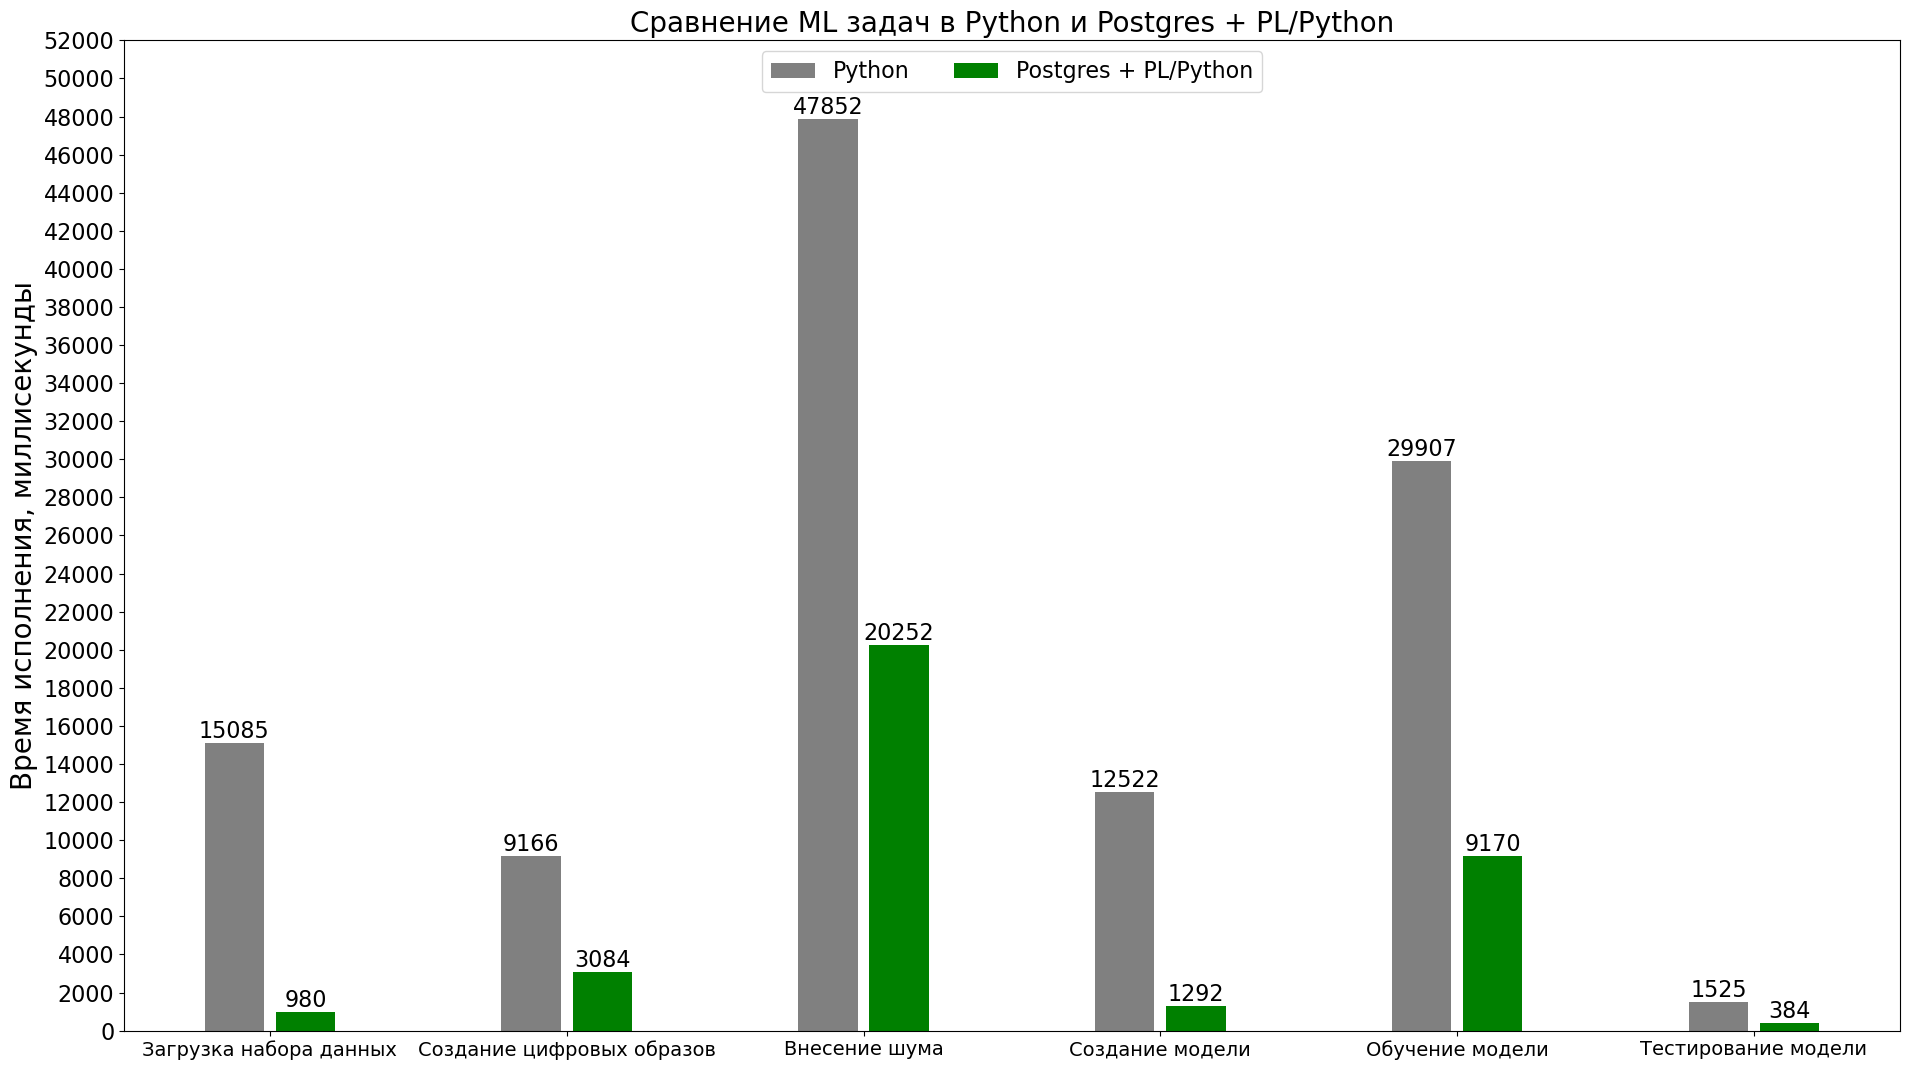
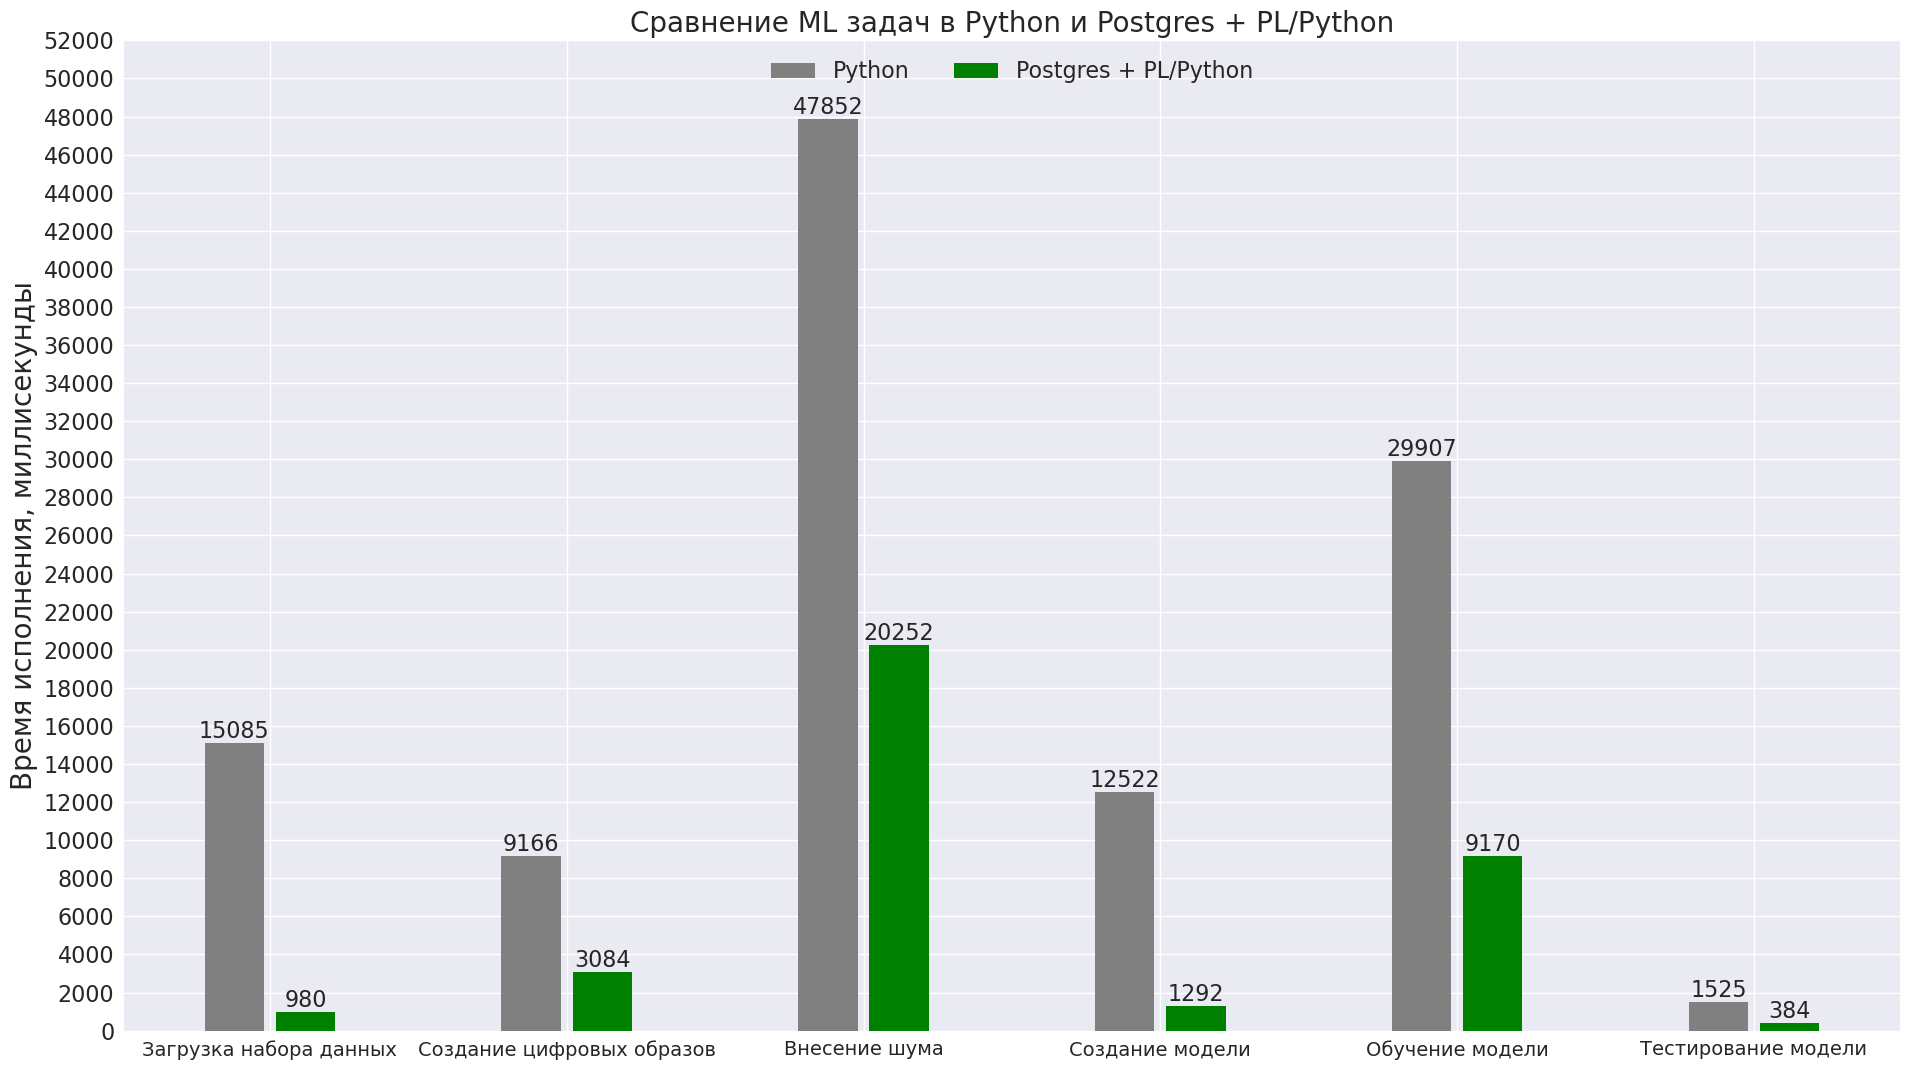
Add python-vs-postgres animated graphs
Add functions for postgres vs python graphs animation
Optimize some imports and variables with lists and dictionary
Update first graph name and all graphs style with "seaborn"
Change second graph from miliseconds to seconds

diff --git a/haralick-features/postgres-vs-python.py b/haralick-features/postgres-vs-python.py
@@ -1,5 +1,8 @@
-import numpy as np
 import matplotlib.pyplot as plt
+import numpy as np
+from matplotlib.animation import FuncAnimation
+
+plt.style.use("seaborn")
 
 data = [
     [ 15085, 9166, 47852, 12522, 29907, 1525],
@@ -28,12 +31,12 @@ y_offset = np.zeros(len(columns))
 values = np.arange(0, 17.5, 0.5)
 plt.figure(figsize=(19.2, 10.8), dpi=100)
 rects_0 = plt.bar(index - 0.12, bar_data[1], bar_width, bottom=y_offset, color=colors[1], label=rows[1])
-plt.bar_label(rects_0, fmt='%1.1f', fontsize=16)
+plt.bar_label(rects_0, fmt='%.1f', fontsize=16)
 rects_1 = plt.bar(index + 0.12, bar_data[0], bar_width, bottom=y_offset, color=colors[0], label=rows[0])
-plt.bar_label(rects_1, fmt='%1.1f', fontsize=16)
+plt.bar_label(rects_1, fmt='%.1f', fontsize=16)
 plt.legend(loc='upper center', ncols=2, fontsize=16)
 
-plt.ylabel(f"Время исполнения, кол-во раз", fontdict={'fontsize': 20})
+plt.ylabel(f"Уменьшение времени исполнения, кол-во раз", fontdict={'fontsize': 20})
 plt.yticks(values, fontsize=16)
 plt.xticks([0.166, 1.166, 2.166, 3.166, 4.166, 5.166], columns, fontsize=14)
 plt.title('Сравнение ML задач в Python и Postgres + PL/Python', fontdict={'fontsize': 20})
@@ -43,19 +46,189 @@ plt.show()
 
 plt.clf()
 
-values = np.arange(0, 54000, 2000)
+values = np.arange(0.0, 54.0, 2.0)
 plt.figure(figsize=(19.2, 10.8), dpi=100)
-rects_2 = plt.bar(index - 0.12, data[0], bar_width, bottom=y_offset, color=colors[1], label=rows[1])
-plt.bar_label(rects_2, fmt='%d', fontsize=16)
-rects_3 = plt.bar(index + 0.12, data[1], bar_width, bottom=y_offset, color=colors[0], label=rows[0])
-plt.bar_label(rects_3, fmt='%d', fontsize=16)
+rects_2 = plt.bar(index - 0.12, [x / 1000.0 for x in data[0]], bar_width, bottom=y_offset, color=colors[1], label=rows[1])
+plt.bar_label(rects_2, fmt='%.1f', fontsize=16)
+rects_3 = plt.bar(index + 0.12, [x / 1000.0 for x in data[1]], bar_width, bottom=y_offset, color=colors[0], label=rows[0])
+plt.bar_label(rects_3, fmt='%.1f', fontsize=16)
 plt.legend(loc='upper center', ncols=2, fontsize=16)
 
-plt.ylabel(f"Время исполнения, миллисекунды", fontdict={'fontsize': 20})
+plt.ylabel(f"Время исполнения, секунды", fontdict={'fontsize': 20})
 plt.yticks(values, fontsize=16)
 plt.xticks([0.166, 1.166, 2.166, 3.166, 4.166, 5.166], columns, fontsize=14)
 plt.title('Сравнение ML задач в Python и Postgres + PL/Python', fontdict={'fontsize': 20})
 plt.tight_layout()
-plt.savefig('graphs/postgres-vs-python-graph-ms.png', bbox_inches='tight')
+plt.savefig('graphs/postgres-vs-python-graph-s.png', bbox_inches='tight')
 plt.show()
+
+values = np.arange(0, 17.5, 0.5)
+
+frames = 120.0
+
+interval_list = []
+for i in range(0, 6):
+    interval_list.append([bar_data[1][i] / frames, bar_data[0][i] / frames])
+
+lst_ranges = []
+for i in range(0, 6):
+    lst_ranges.append([
+        np.arange(0.0, bar_data[1][i] + interval_list[i][0], interval_list[i][0]),
+        np.arange(0.0, bar_data[0][i] + interval_list[i][1], interval_list[i][1])
+    ])
+
+index_list = []
+for i in range(0, 6):
+    index_list.append(np.arange(i, i + 1.0) + 0.5)
+
+y_dict = {
+    '0': [], '1': [],
+    '2': [], '3': [],
+    '4': [], '5': [],
+    '6': [], '7': [],
+    '8': [], '9': [],
+    '10': [], '11': []
+}
+
+fig = plt.figure(figsize=(19.2, 10.8), dpi=100)
+def animate_one(i):
+    print(i)
+    plt.clf()
+
+    if 0 <= i < 120:
+        y_dict['0'], y_dict['1'] = lst_ranges[0][0][i], lst_ranges[0][1][i]
+        y_dict['2'], y_dict['3'] = lst_ranges[1][0][i], lst_ranges[1][1][i]
+        y_dict['4'], y_dict['5'] = lst_ranges[2][0][i], lst_ranges[2][1][i]
+        y_dict['6'], y_dict['7'] = lst_ranges[3][0][i], lst_ranges[3][1][i]
+        y_dict['8'], y_dict['9'] = lst_ranges[4][0][i], lst_ranges[4][1][i]
+        y_dict['10'], y_dict['11'] = lst_ranges[5][0][i], lst_ranges[5][1][i]
+    else:
+        y_dict['0'], y_dict['1'] = lst_ranges[0][0][-1], lst_ranges[0][1][-1]
+        y_dict['2'], y_dict['3'] = lst_ranges[1][0][-1], lst_ranges[1][1][-1]
+        y_dict['4'], y_dict['5'] = lst_ranges[2][0][-1], lst_ranges[2][1][-1]
+        y_dict['6'], y_dict['7'] = lst_ranges[3][0][-1], lst_ranges[3][1][-1]
+        y_dict['8'], y_dict['9'] = lst_ranges[4][0][-1], lst_ranges[4][1][-1]
+        y_dict['10'], y_dict['11'] = lst_ranges[5][0][-1], lst_ranges[5][1][-1]
+
+    rect0 = plt.bar(index_list[0] - 0.12, y_dict['0'], bar_width, color='gray', label=rows[1])
+    plt.bar_label(rect0, fmt='%1.1f', fontsize=16)
+    rect1 = plt.bar(index_list[0] + 0.12, y_dict['1'], bar_width, color='green', label=rows[0])
+    plt.bar_label(rect1, fmt='%1.1f', fontsize=16)
+    rect2 = plt.bar(index_list[1] - 0.12, y_dict['2'], bar_width, color='gray')
+    plt.bar_label(rect2, fmt='%1.1f', fontsize=16)
+    rect3 = plt.bar(index_list[1] + 0.12, y_dict['3'], bar_width, color='green')
+    plt.bar_label(rect3, fmt='%1.1f', fontsize=16)
+    rect4 = plt.bar(index_list[2] - 0.12, y_dict['4'], bar_width, color='gray')
+    plt.bar_label(rect4, fmt='%1.1f', fontsize=16)
+    rect5 = plt.bar(index_list[2] + 0.12, y_dict['5'], bar_width, color='green')
+    plt.bar_label(rect5, fmt='%1.1f', fontsize=16)
+    rect6 = plt.bar(index_list[3] - 0.12, y_dict['6'], bar_width, color='gray')
+    plt.bar_label(rect6, fmt='%1.1f', fontsize=16)
+    rect7 = plt.bar(index_list[3] + 0.12, y_dict['7'], bar_width, color='green')
+    plt.bar_label(rect7, fmt='%1.1f', fontsize=16)
+    rect8 = plt.bar(index_list[4] - 0.12, y_dict['8'], bar_width, color='gray')
+    plt.bar_label(rect8, fmt='%1.1f', fontsize=16)
+    rect9 = plt.bar(index_list[4] + 0.12, y_dict['9'], bar_width, color='green')
+    plt.bar_label(rect9, fmt='%1.1f', fontsize=16)
+    rect10 = plt.bar(index_list[5] - 0.12, y_dict['10'], bar_width, color='gray')
+    plt.bar_label(rect10, fmt='%1.1f', fontsize=16)
+    rect11 = plt.bar(index_list[5] + 0.12, y_dict['11'], bar_width, color='green')
+    plt.bar_label(rect11, fmt='%1.1f', fontsize=16)
+
+    plt.legend(loc='upper center', ncols=2, fontsize=16)
+    plt.ylabel(f"Уменьшение времени исполнения, кол-во раз", fontdict={'fontsize': 20})
+    plt.xticks([0.5, 1.5, 2.5, 3.5, 4.5, 5.5], columns, fontsize=14)
+    plt.yticks(values, fontsize=16)
+    plt.title('Сравнение ML задач в Python и Postgres + PL/Python', fontdict={'fontsize': 20})
+    plt.ylim([0, 18])
+    plt.xlim([0.0, 6.0])
+    plt.tight_layout()
+
+ani = FuncAnimation(fig, animate_one, frames=240, interval=10)
+ani.save('postgres-vs-python.mp4', writer='ffmpeg', fps=60)
+
+values = np.arange(0.0, 54.0, 2.0)
+
+frames = 120.0
+
+interval_list = []
+for i in range(0, 6):
+    interval_list.append([data[0][i] / 1000.0 / frames, data[1][i] / 1000.0 / frames])
+
+lst_ranges = []
+for i in range(0, 6):
+    lst_ranges.append([
+        np.arange(0.0, data[0][i] / 1000.0 + interval_list[i][0], interval_list[i][0]),
+        np.arange(0.0, data[1][i] / 1000.0 + interval_list[i][1], interval_list[i][1])
+    ])
+
+index_list = []
+for i in range(0, 6):
+    index_list.append(np.arange(i, i + 1.0) + 0.5)
+
+y_dict = {
+    '0': [], '1': [],
+    '2': [], '3': [],
+    '4': [], '5': [],
+    '6': [], '7': [],
+    '8': [], '9': [],
+    '10': [], '11': []
+}
+
+fig = plt.figure(figsize=(19.2, 10.8), dpi=100)
+def animate_two(i):
+    print(i)
+    plt.clf()
+
+    if 0 <= i < 120:
+        y_dict['0'], y_dict['1'] = lst_ranges[0][0][i], lst_ranges[0][1][i]
+        y_dict['2'], y_dict['3'] = lst_ranges[1][0][i], lst_ranges[1][1][i]
+        y_dict['4'], y_dict['5'] = lst_ranges[2][0][i], lst_ranges[2][1][i]
+        y_dict['6'], y_dict['7'] = lst_ranges[3][0][i], lst_ranges[3][1][i]
+        y_dict['8'], y_dict['9'] = lst_ranges[4][0][i], lst_ranges[4][1][i]
+        y_dict['10'], y_dict['11'] = lst_ranges[5][0][i], lst_ranges[5][1][i]
+    else:
+        y_dict['0'], y_dict['1'] = lst_ranges[0][0][-1], lst_ranges[0][1][-1]
+        y_dict['2'], y_dict['3'] = lst_ranges[1][0][-1], lst_ranges[1][1][-1]
+        y_dict['4'], y_dict['5'] = lst_ranges[2][0][-1], lst_ranges[2][1][-1]
+        y_dict['6'], y_dict['7'] = lst_ranges[3][0][-1], lst_ranges[3][1][-1]
+        y_dict['8'], y_dict['9'] = lst_ranges[4][0][-1], lst_ranges[4][1][-1]
+        y_dict['10'], y_dict['11'] = lst_ranges[5][0][-1], lst_ranges[5][1][-1]
+
+    rect0 = plt.bar(index_list[0] - 0.12, y_dict['0'], bar_width, color='gray', label=rows[1])
+    plt.bar_label(rect0, fmt='%1.1f', fontsize=16)
+    rect1 = plt.bar(index_list[0] + 0.12, y_dict['1'], bar_width, color='green', label=rows[0])
+    plt.bar_label(rect1, fmt='%1.1f', fontsize=16)
+    rect2 = plt.bar(index_list[1] - 0.12, y_dict['2'], bar_width, color='gray')
+    plt.bar_label(rect2, fmt='%1.1f', fontsize=16)
+    rect3 = plt.bar(index_list[1] + 0.12, y_dict['3'], bar_width, color='green')
+    plt.bar_label(rect3, fmt='%1.1f', fontsize=16)
+    rect4 = plt.bar(index_list[2] - 0.12, y_dict['4'], bar_width, color='gray')
+    plt.bar_label(rect4, fmt='%1.1f', fontsize=16)
+    rect5 = plt.bar(index_list[2] + 0.12, y_dict['5'], bar_width, color='green')
+    plt.bar_label(rect5, fmt='%1.1f', fontsize=16)
+    rect6 = plt.bar(index_list[3] - 0.12, y_dict['6'], bar_width, color='gray')
+    plt.bar_label(rect6, fmt='%1.1f', fontsize=16)
+    rect7 = plt.bar(index_list[3] + 0.12, y_dict['7'], bar_width, color='green')
+    plt.bar_label(rect7, fmt='%1.1f', fontsize=16)
+    rect8 = plt.bar(index_list[4] - 0.12, y_dict['8'], bar_width, color='gray')
+    plt.bar_label(rect8, fmt='%1.1f', fontsize=16)
+    rect9 = plt.bar(index_list[4] + 0.12, y_dict['9'], bar_width, color='green')
+    plt.bar_label(rect9, fmt='%1.1f', fontsize=16)
+    rect10 = plt.bar(index_list[5] - 0.12, y_dict['10'], bar_width, color='gray')
+    plt.bar_label(rect10, fmt='%1.1f', fontsize=16)
+    rect11 = plt.bar(index_list[5] + 0.12, y_dict['11'], bar_width, color='green')
+    plt.bar_label(rect11, fmt='%1.1f', fontsize=16)
+
+    plt.legend(loc='upper center', ncols=2, fontsize=16)
+    plt.ylabel(f"Время исполнения, секунды", fontdict={'fontsize': 20})
+    plt.xticks([0.5, 1.5, 2.5, 3.5, 4.5, 5.5], columns, fontsize=14)
+    plt.yticks(values, fontsize=16)
+    plt.title('Сравнение ML задач в Python и Postgres + PL/Python', fontdict={'fontsize': 20})
+    plt.ylim([0, 52])
+    plt.xlim([0.0, 6.0])
+    plt.tight_layout()
+
+ani = FuncAnimation(fig, animate_two, frames=240, interval=10)
+ani.save('postgres-vs-python-s.mp4', writer='ffmpeg', fps=60)
 
